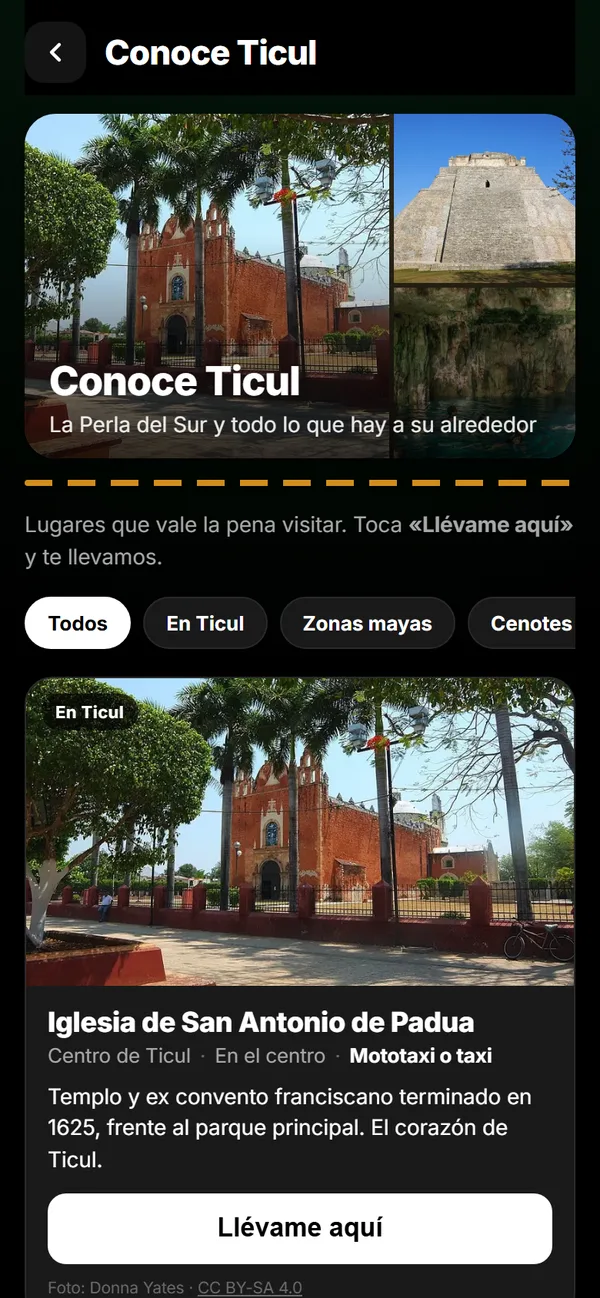
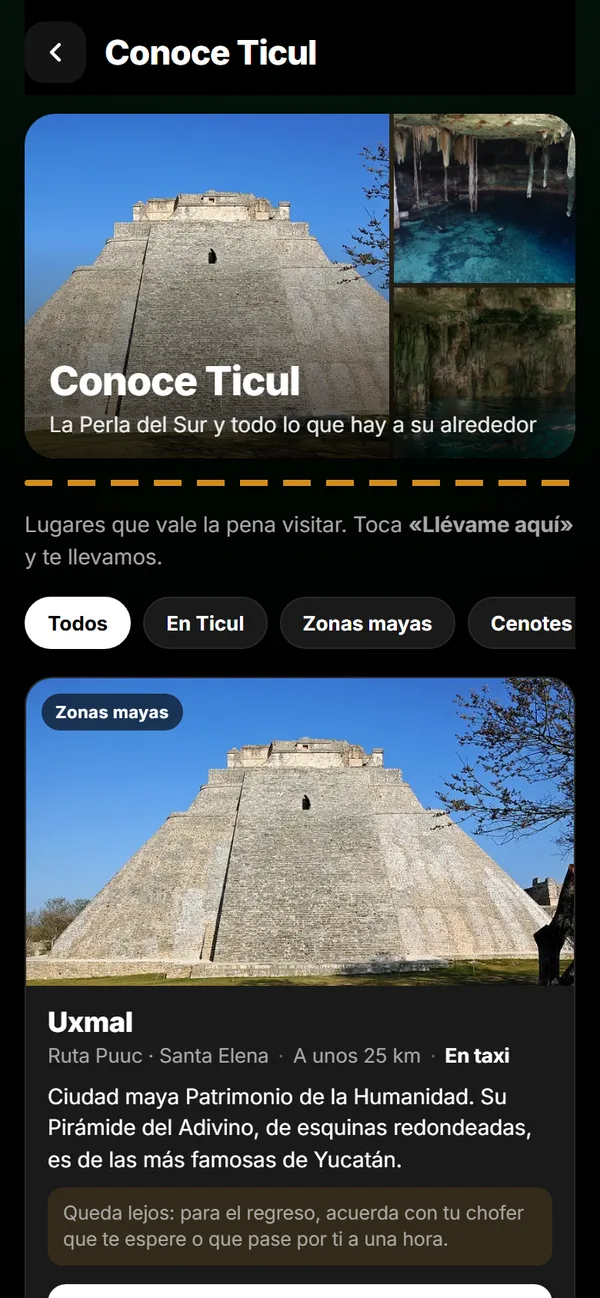
Conoce Ticul: sin la iglesia del centro, nuevo cenote Kankirixché, portada Uxmal/Kankirixché/Mucuyché, caras difuminadas en Mucuyché; web con las capturas nuevas
Claude-Session: https://claude.ai/code/session_01Wgy7RdedGZADcdRqYZwkJU

diff --git a/frontend/index.html b/frontend/index.html
@@ -650,7 +650,7 @@ footer .wrap{display:grid;gap:26px}
         <p class="intro rev r3">Zonas mayas, cenotes, haciendas y lo mejor de Ticul, ahora dentro de MotoVecino. Elige un lugar y toca <b>«Llévame aquí»</b>. <b>Empezamos por Ticul; pronto, más municipios de Yucatán.</b></p>
         <ul class="lista">
           <li class="rev"><span class="palomita"><svg viewBox="0 0 24 24"><path d="M5 12.5l4.5 4.5L19 7.5"/></svg></span><span><b>Zonas mayas:</b> Uxmal, Kabah, Sayil, Labná y más.</span></li>
-          <li class="rev r2"><span class="palomita"><svg viewBox="0 0 24 24"><path d="M5 12.5l4.5 4.5L19 7.5"/></svg></span><span><b>Cenotes y grutas:</b> Loltún, Mucuyché y más.</span></li>
+          <li class="rev r2"><span class="palomita"><svg viewBox="0 0 24 24"><path d="M5 12.5l4.5 4.5L19 7.5"/></svg></span><span><b>Cenotes y grutas:</b> Loltún, Mucuyché, Kankirixché y más.</span></li>
           <li class="rev r3"><span class="palomita"><svg viewBox="0 0 24 24"><path d="M5 12.5l4.5 4.5L19 7.5"/></svg></span><span><b>Haciendas y conventos:</b> Tabi, Maní y más.</span></li>
           <li class="rev r4"><span class="palomita"><svg viewBox="0 0 24 24"><path d="M5 12.5l4.5 4.5L19 7.5"/></svg></span><span><b>Toca «Llévame aquí»</b> y la app pone el destino por ti.</span></li>
           <li class="rev r5"><span class="palomita"><svg viewBox="0 0 24 24"><path d="M5 12.5l4.5 4.5L19 7.5"/></svg></span><span><b>Mototaxi o taxi, según la distancia.</b> Para los lugares lejanos te recuerda acordar el regreso con tu chofer.</span></li>
@@ -660,8 +660,8 @@ footer .wrap{display:grid;gap:26px}
       </div>
       <div class="visual rev r2">
         <div class="duo">
-          <div class="cel atras"><img src="/inicio/app-conoce-ticul-uxmal.webp" alt="" width="600" height="1298" loading="lazy"></div>
-          <div class="cel frente"><img src="/inicio/app-conoce-ticul.webp" alt="Pantalla Conoce Ticul con la iglesia de San Antonio, Uxmal y el botón Llévame aquí" width="600" height="1298" loading="lazy"></div>
+          <div class="cel atras"><img src="/inicio/app-conoce-cenote.webp" alt="" width="600" height="1298" loading="lazy"></div>
+          <div class="cel frente"><img src="/inicio/app-conoce-ticul.webp" alt="Pantalla Conoce Ticul con Uxmal, el cenote Kankirixché y Mucuyché" width="600" height="1298" loading="lazy"></div>
         </div>
       </div>
     </div>
